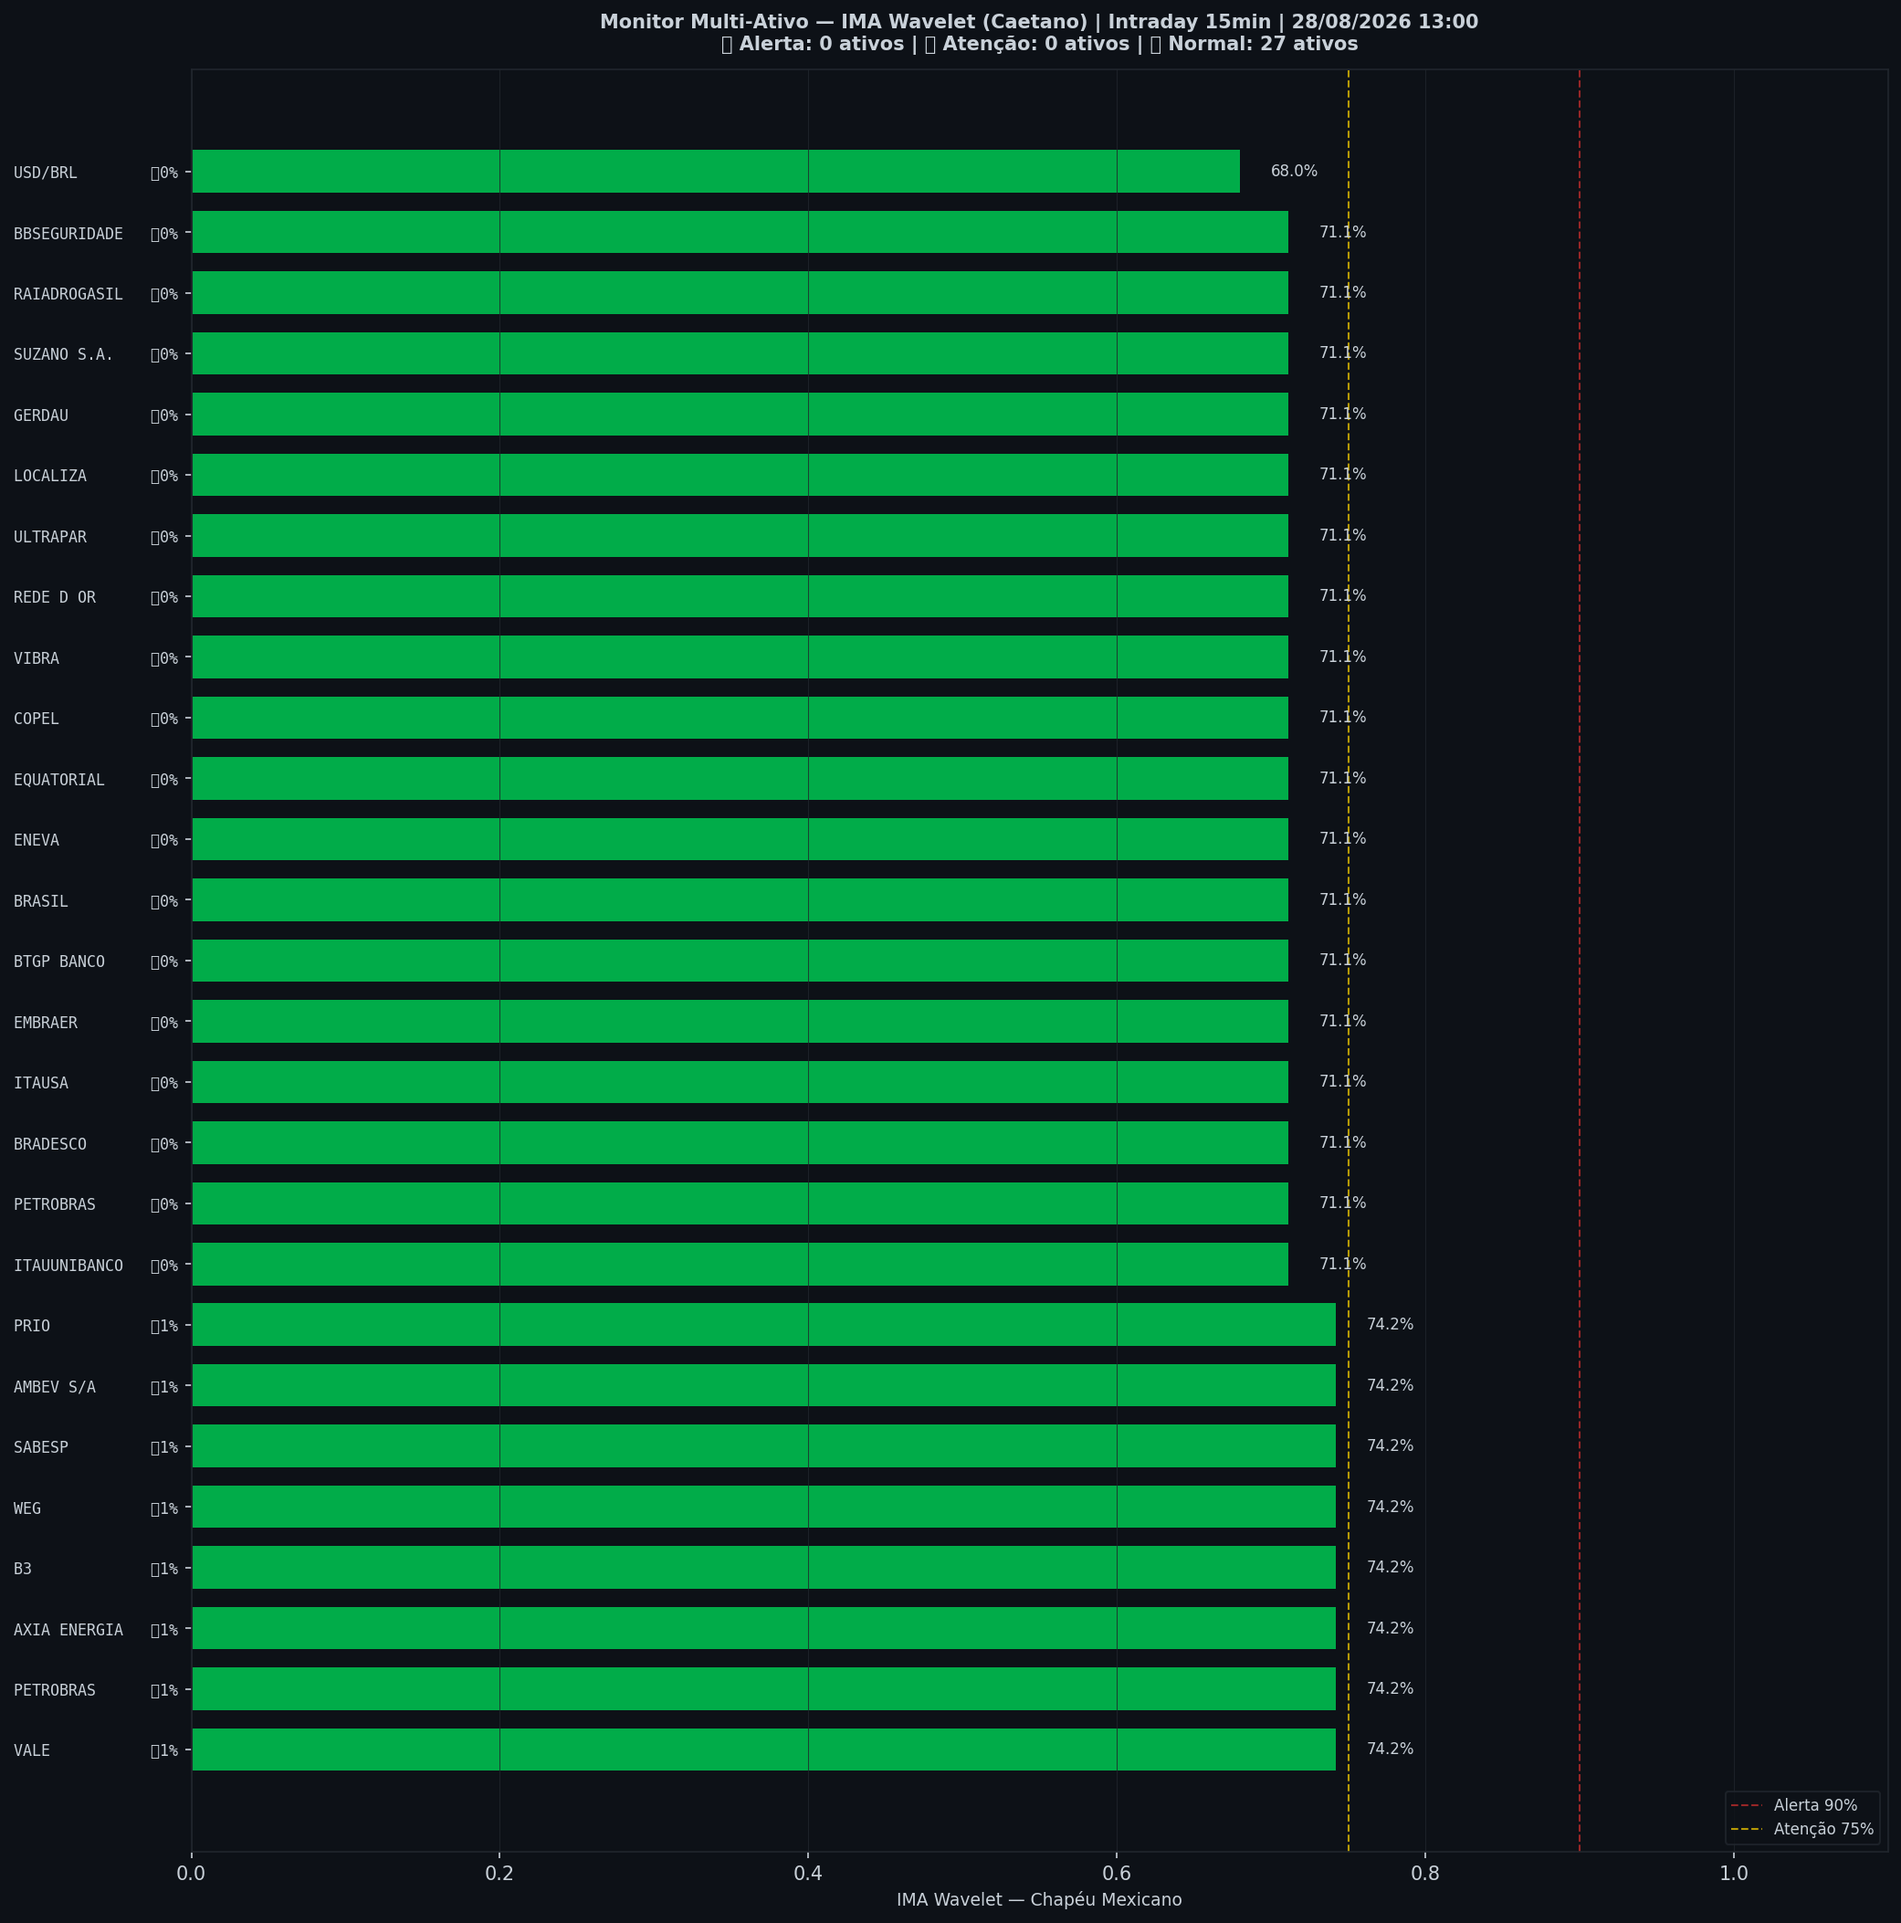
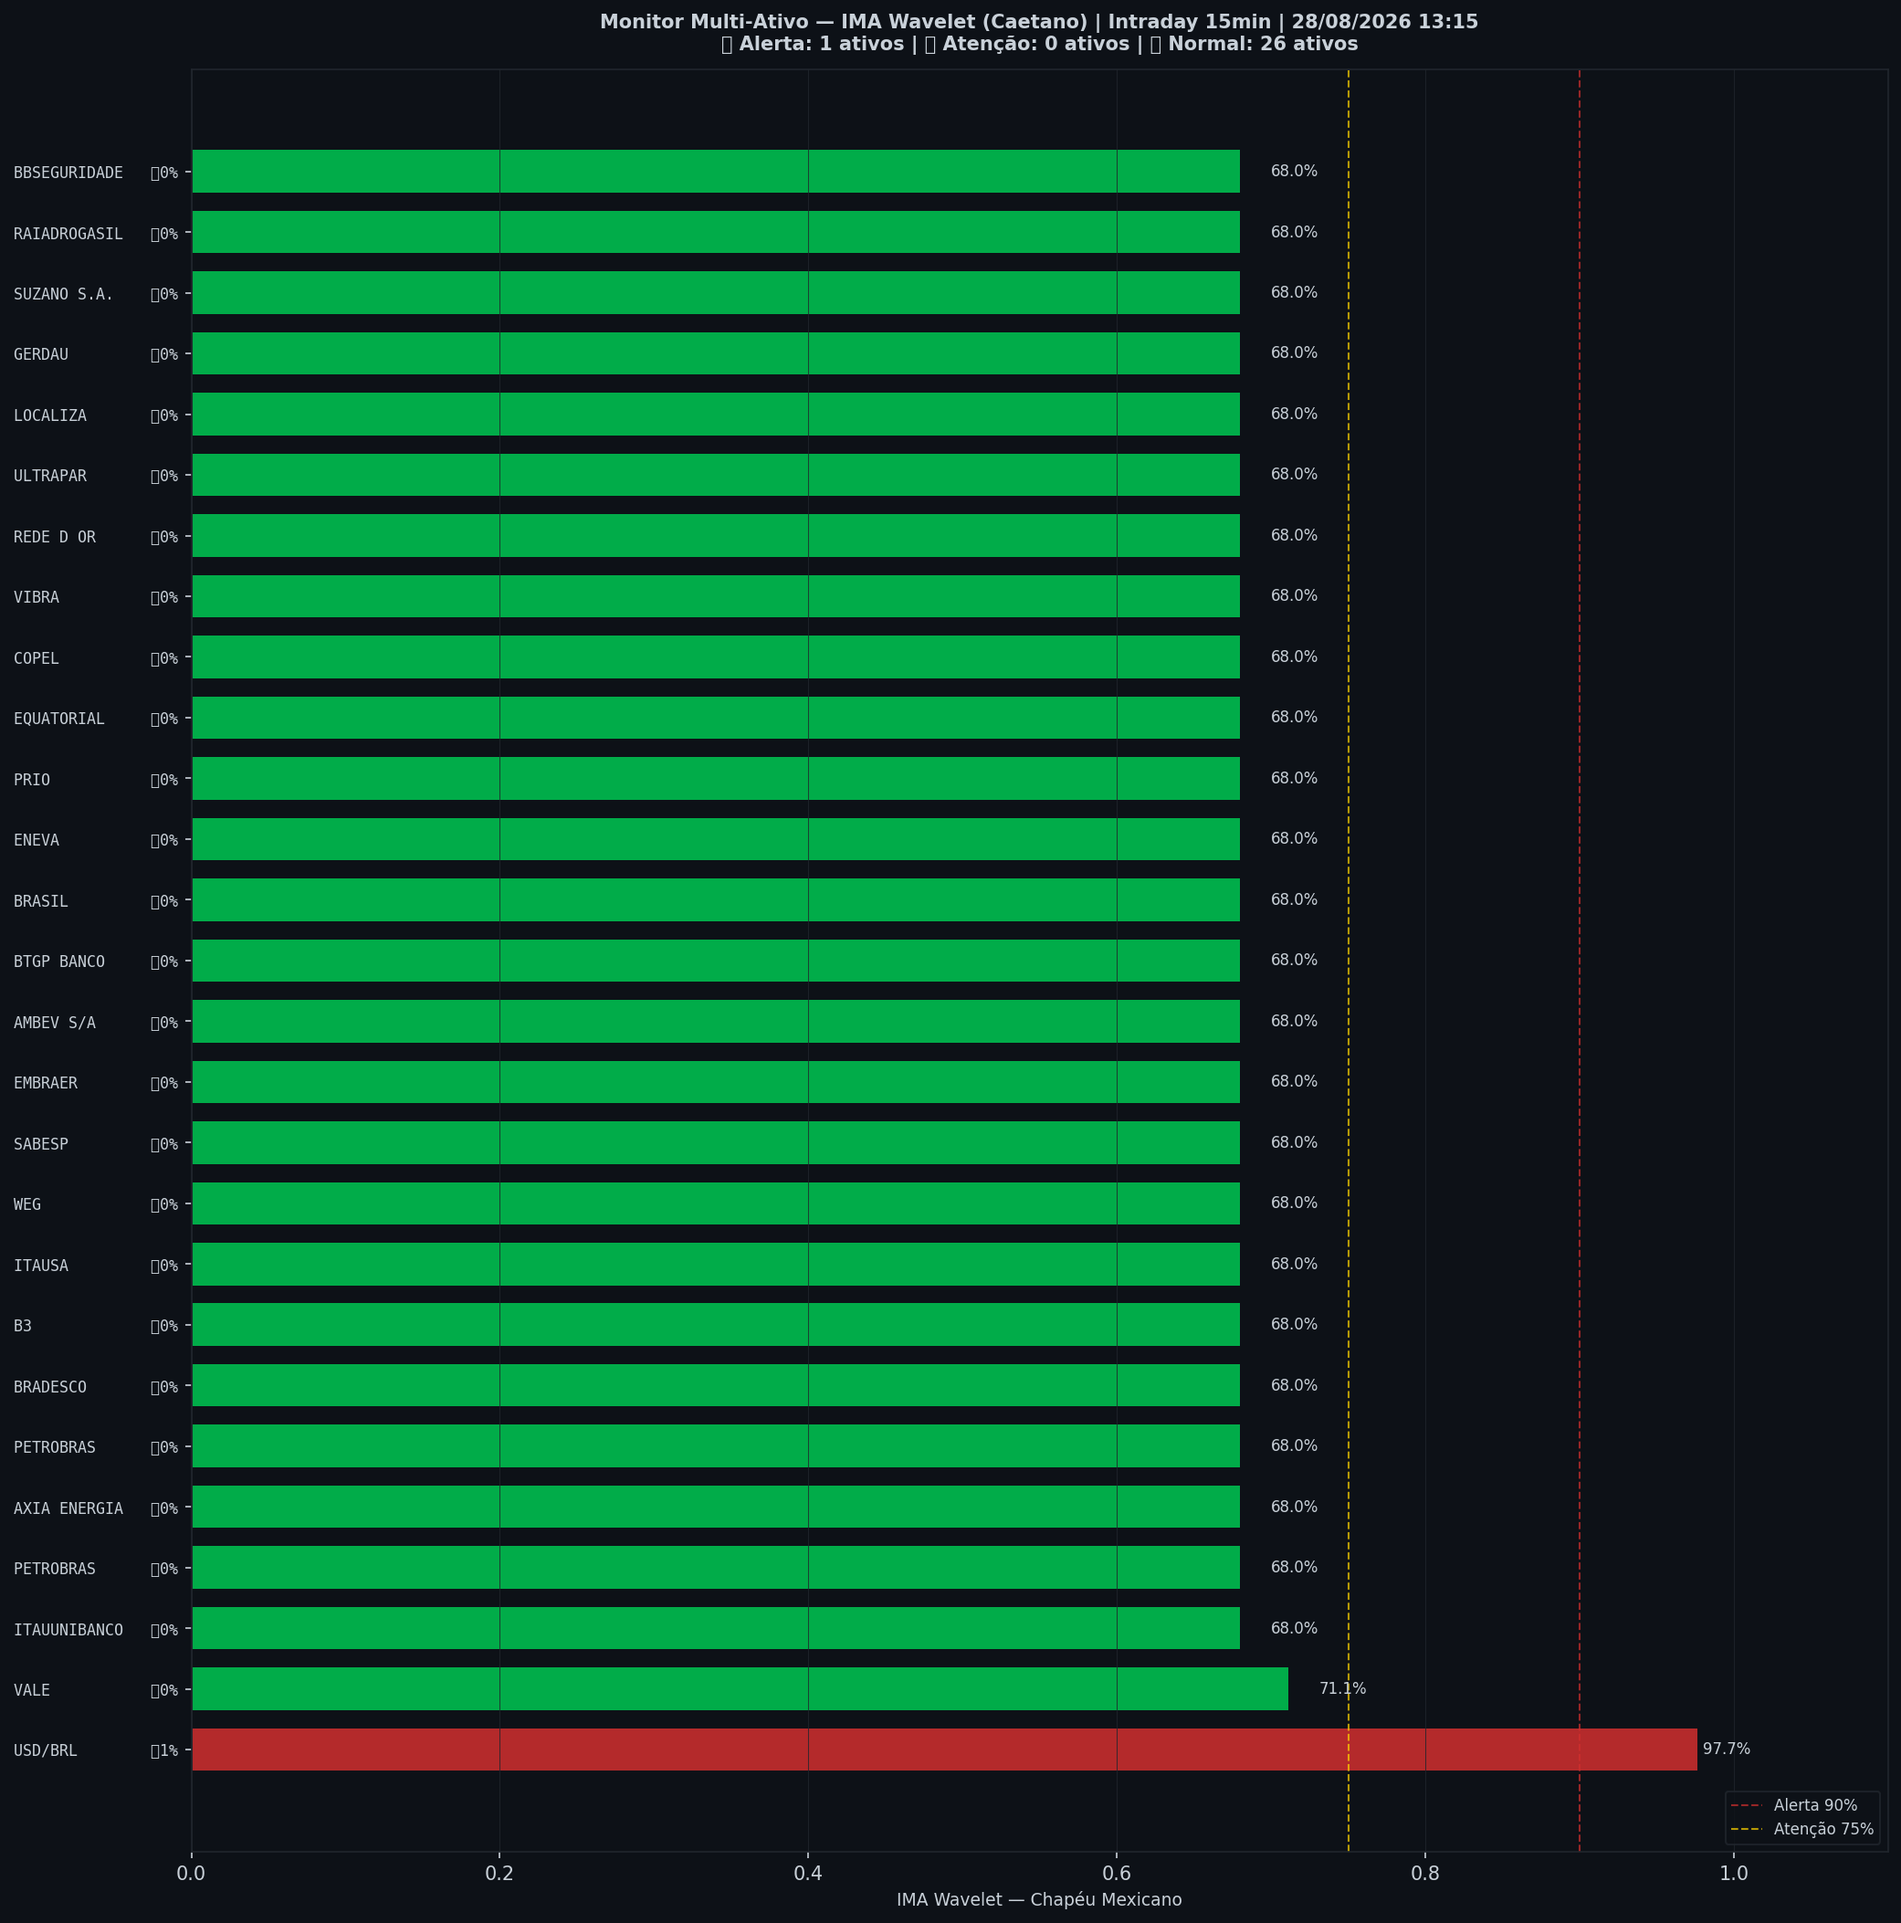
🤖 Auto: Sinal 28/08/2026 13:15

diff --git a/content/intraday/2026-08-28.md b/content/intraday/2026-08-28.md
@@ -1,5 +1,5 @@
 ---
-title: "🟢 Intraday 28/08/2026 12:15 BRT — VERDE"
+title: "🟢 Intraday 28/08/2026 12:30 BRT — VERDE"
 date: 2026-08-28
 tags: [intraday]
 ---
@@ -12,9 +12,9 @@ tags: [intraday]
 | Indicador | Valor |
 |---|---|
 | 🔴 ζ Crash — severidade da queda em curso | **0%** |
-| 🔵 ζ Entrada — estrutura de fundo | 17% |
+| 🔵 ζ Entrada — estrutura de fundo | 23% |
 | 🫧 LPPL DS-Confidence | 0% |
-| 📊 Ibovespa | 174.510 pts |
+| 📊 Ibovespa | 174.081 pts |
 
 ![Gráfico do sinal](../graficos/sinal_intraday.png)
 
@@ -22,6 +22,7 @@ tags: [intraday]
 
 | Data | Zona | Risco | IMA Crash | Entrada | LPPL |
 |---|---|---|---|---|---|
+| 2026-08-28 12:30 | 🟢 VERDE | **0%** | 0% | 23% | 0% |
 | 2026-08-28 12:15 | 🟢 VERDE | **0%** | 0% | 17% | 0% |
 | 2026-08-28 12:00 | 🟢 VERDE | **0%** | 0% | 17% | 0% |
 | 2026-08-28 11:45 | 🟢 VERDE | **1%** | 1% | 9% | 0% |
@@ -51,45 +52,44 @@ tags: [intraday]
 | 2026-08-27 12:45 | 🟢 VERDE | **0%** | 0% | 11% | 0% |
 | 2026-08-27 12:30 | 🟢 VERDE | **0%** | 0% | 21% | 0% |
 | 2026-08-27 12:15 | 🟢 VERDE | **0%** | 0% | 30% | 0% |
-| 2026-08-27 12:00 | 🟢 VERDE | **0%** | 0% | 41% | 0% |
 
 ## Monitor Multi-Ativo
 
-**0% dos ativos em tensão** (0🔴 27🟡) — quanto mais ativos disparam juntos, mais confiável o sinal.
+**4% dos ativos em tensão** (1🔴 26🟡) — quanto mais ativos disparam juntos, mais confiável o sinal.
 
 | Zona | Ativo | Setor | IMA Crash | IMA Entrada |
 |---|---|---|---|---|
-| 🟡 | **VALE** | Mineração | 74.2% | 0.8% |
-| 🟡 | **PETROBRAS** | Petróleo | 74.2% | 0.8% |
-| 🟡 | **AXIA ENERGIA** | Energia | 74.2% | 0.8% |
-| 🟡 | **B3** | Financeiro | 74.2% | 0.8% |
-| 🟡 | **WEG** | Industrial | 74.2% | 0.8% |
-| 🟡 | **SABESP** | Saneamento | 74.2% | 0.8% |
-| 🟡 | **AMBEV S/A** | Consumo | 74.2% | 0.8% |
-| 🟡 | **PRIO** | Petróleo | 74.2% | 0.8% |
-| 🟡 | **ITAUUNIBANCO** | Financeiro | 71.1% | 0.0% |
-| 🟡 | **PETROBRAS** | Petróleo | 71.1% | 0.0% |
-| 🟡 | **BRADESCO** | Financeiro | 71.1% | 0.0% |
-| 🟡 | **ITAUSA** | Financeiro | 71.1% | 0.0% |
-| 🟡 | **EMBRAER** | Outros | 71.1% | 0.0% |
-| 🟡 | **BTGP BANCO** | Financeiro | 71.1% | 0.0% |
-| 🟡 | **BRASIL** | Financeiro | 71.1% | 0.0% |
-| 🟡 | **ENEVA** | Energia | 71.1% | 0.0% |
-| 🟡 | **EQUATORIAL** | Energia | 71.1% | 0.0% |
-| 🟡 | **COPEL** | Energia | 71.1% | 0.0% |
-| 🟡 | **VIBRA** | Energia | 71.1% | 0.0% |
-| 🟡 | **REDE D OR** | Saúde | 71.1% | 0.0% |
-| 🟡 | **ULTRAPAR** | Outros | 71.1% | 0.0% |
-| 🟡 | **LOCALIZA** | Aluguel | 71.1% | 0.0% |
-| 🟡 | **GERDAU** | Siderurgia | 71.1% | 0.0% |
-| 🟡 | **SUZANO S.A.** | Papel/Celulose | 71.1% | 0.0% |
-| 🟡 | **RAIADROGASIL** | Outros | 71.1% | 0.0% |
-| 🟡 | **BBSEGURIDADE** | Financeiro | 71.1% | 0.0% |
-| 🟡 | **USD/BRL** | Câmbio | 68.0% | 0.0% |
+| 🔴 | **USD/BRL** | Câmbio | 97.7% | 0.8% |
+| 🟡 | **VALE** | Mineração | 71.1% | 0.0% |
+| 🟡 | **ITAUUNIBANCO** | Financeiro | 68.0% | 0.0% |
+| 🟡 | **PETROBRAS** | Petróleo | 68.0% | 0.0% |
+| 🟡 | **AXIA ENERGIA** | Energia | 68.0% | 0.0% |
+| 🟡 | **PETROBRAS** | Petróleo | 68.0% | 0.0% |
+| 🟡 | **BRADESCO** | Financeiro | 68.0% | 0.0% |
+| 🟡 | **B3** | Financeiro | 68.0% | 0.0% |
+| 🟡 | **ITAUSA** | Financeiro | 68.0% | 0.0% |
+| 🟡 | **WEG** | Industrial | 68.0% | 0.0% |
+| 🟡 | **SABESP** | Saneamento | 68.0% | 0.0% |
+| 🟡 | **EMBRAER** | Outros | 68.0% | 0.0% |
+| 🟡 | **AMBEV S/A** | Consumo | 68.0% | 0.0% |
+| 🟡 | **BTGP BANCO** | Financeiro | 68.0% | 0.0% |
+| 🟡 | **BRASIL** | Financeiro | 68.0% | 0.0% |
+| 🟡 | **ENEVA** | Energia | 68.0% | 0.0% |
+| 🟡 | **PRIO** | Petróleo | 68.0% | 0.0% |
+| 🟡 | **EQUATORIAL** | Energia | 68.0% | 0.0% |
+| 🟡 | **COPEL** | Energia | 68.0% | 0.0% |
+| 🟡 | **VIBRA** | Energia | 68.0% | 0.0% |
+| 🟡 | **REDE D OR** | Saúde | 68.0% | 0.0% |
+| 🟡 | **ULTRAPAR** | Outros | 68.0% | 0.0% |
+| 🟡 | **LOCALIZA** | Aluguel | 68.0% | 0.0% |
+| 🟡 | **GERDAU** | Siderurgia | 68.0% | 0.0% |
+| 🟡 | **SUZANO S.A.** | Papel/Celulose | 68.0% | 0.0% |
+| 🟡 | **RAIADROGASIL** | Outros | 68.0% | 0.0% |
+| 🟡 | **BBSEGURIDADE** | Financeiro | 68.0% | 0.0% |
 
 ![Monitor multi-ativo](../graficos/multi_intraday.png)
 
-*Página atualizada em 28/08/2026 13:00 BRT (leitura da barra de 2026-08-28 12:15 BRT).*
+*Página atualizada em 28/08/2026 13:15 BRT (leitura da barra de 2026-08-28 12:30 BRT).*
 
 > [!info]- Como interpretar (clique para expandir)
 > - **ζ Crash**: fração dos coeficientes wavelet acima do corte (Caetano & Yoneyama 2009). Escala absoluta: ζ=0,90 = 90% dos coeficientes anômalos — historicamente, quedas com ζ≥0,90 foram mais fundas e mais longas. **Mede a severidade do movimento em curso, não prevê o início da queda.**

diff --git a/content/index.md b/content/index.md
@@ -8,7 +8,7 @@ tags: [home]
 
 Monitoramento diário e intraday do Ibovespa — **IMA Wavelet** (Prof. Marco Antonio Leonel Caetano, ITA/INSPER) + **LPPL DS-Confidence** (Prof. Didier Sornette, ETH-Zurich).
 
-*Última atualização: 28/08/2026 13:00 BRT · ^BVSP · Intraday 15min · v4*
+*Última atualização: 28/08/2026 13:15 BRT · ^BVSP · Intraday 15min · v4*
 
 > [!success] 🟢 **VERDE** — Risco 0% · ＝ +0 p.p. vs leitura anterior
 > `░░░░░░░░░░░░░░░░░░░░`
@@ -18,11 +18,11 @@ Monitoramento diário e intraday do Ibovespa — **IMA Wavelet** (Prof. Marco An
 | Indicador | Valor |
 |---|---|
 | 🔴 ζ Crash — severidade da queda em curso | **0%** |
-| 🔵 ζ Entrada — estrutura de fundo | 17% |
+| 🔵 ζ Entrada — estrutura de fundo | 23% |
 | 🫧 LPPL DS-Confidence | 0% |
-| 📊 Ibovespa | 174.510 pts |
+| 📊 Ibovespa | 174.081 pts |
 
-**Multi-ativo:** 0% em tensão (0🔴 27🟡 de 27 ativos)
+**Multi-ativo:** 4% em tensão (1🔴 26🟡 de 27 ativos)
 
 
 > [!tip]- Calibração v4 (backtest 15y)

diff --git a/content/historico.md b/content/historico.md
@@ -7,6 +7,7 @@ tags: [historico]
 
 | Data | Modo | Zona | Risco | IMA | LPPL |
 |---|---|---|---|---|---|
+| 2026-08-28 12:30 | intraday | 🟢 VERDE | 0% | 0% | 0% |
 | 2026-08-28 12:15 | intraday | 🟢 VERDE | 0% | 0% | 0% |
 | 2026-08-28 12:00 | intraday | 🟢 VERDE | 0% | 0% | 0% |
 | 2026-08-28 11:45 | intraday | 🟢 VERDE | 1% | 1% | 0% |
